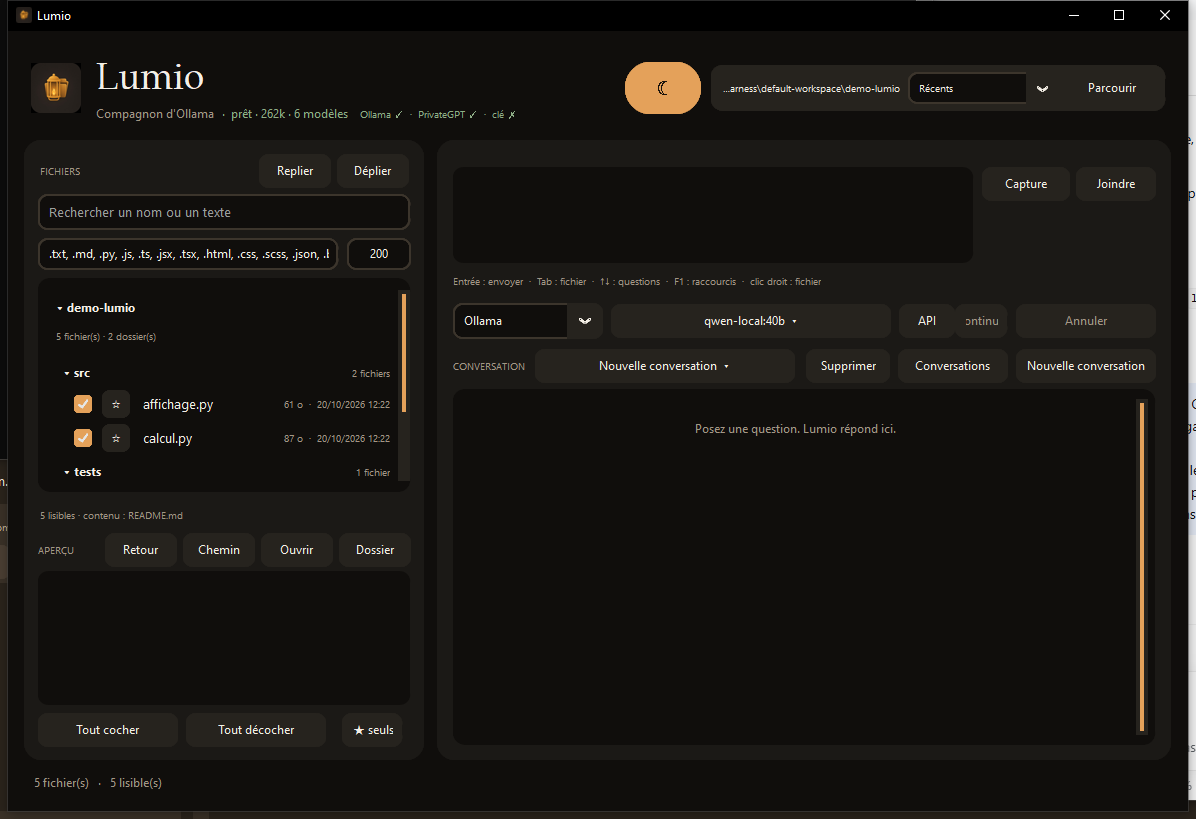
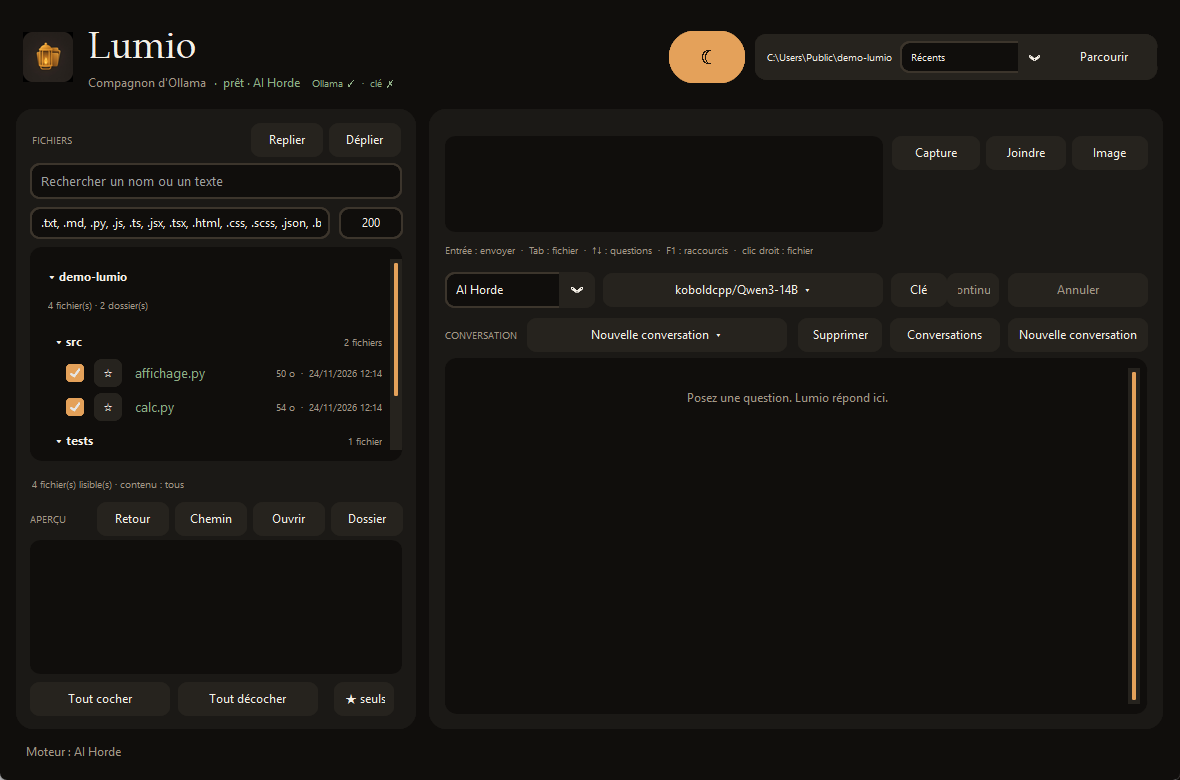
Rafraichir la capture d'ecran et corriger l'etat sans modele
- docs/screenshot.png : capture refaite sur l'application, bandeau sans
  PrivateGPT, moteur AI Horde, bouton Image visible ;
- gui_tool : quand le serveur repond mais n'a aucun modele, l'etat affiche
  « aucun modele installe » au lieu de « Ollama arrete », qui etait faux ;
  « modele indisponible » quand des modeles existent sans qu'aucun ne soit
  retenu.

diff --git a/gui_tool.py b/gui_tool.py
@@ -6351,10 +6351,14 @@ class FileSystemWrapper(_WindowBase):
                     hint = "clé API manquante"
                 elif provider == "horde":
                     hint = "AI Horde injoignable"
+                elif provider == "ollama":
+                    # Le serveur répond : il n'a simplement aucun modèle.
+                    hint = "aucun modèle installé"
                 else:
-                    hint = f"{label} arrêté"
+                    hint = f"{label} : aucun modèle"
             else:
-                hint = f"{label} arrêté"
+                # Des modèles existent, aucun n'a pu être retenu.
+                hint = f"{label} : modèle indisponible"
             self.ollama_state.configure(text=f"·  {hint}")
         self._refresh_model_button()
         self._save_session()
